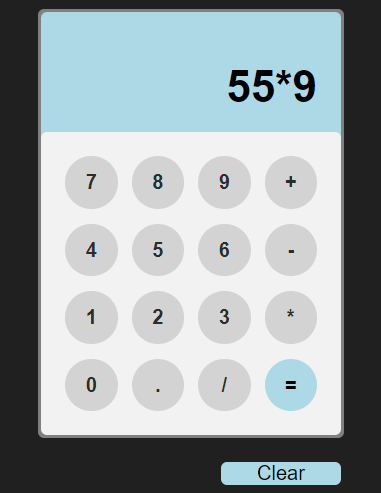
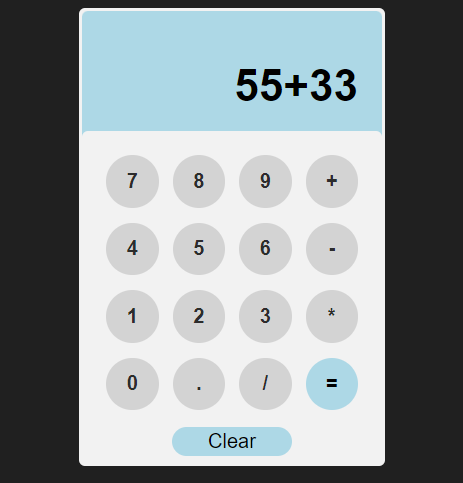
Ajuste no button-clear CSS e na imagem do readme

diff --git a/assets/css/style.css b/assets/css/style.css
@@ -15,9 +15,10 @@ body {
 }
 
 .calculator {
+    height: 19.0625rem;
     display: flex;
     flex-direction: column;
-    background-color: grey;
+    background-color: #f2f2f2;
     padding: 2px;
     border-radius: 4px;
 }
@@ -73,9 +74,10 @@ section {
 .button-clear {
     width: 5rem;
     position: absolute;
-    margin-left: 7.5rem;
-    margin-top: 18.75rem;
-    border-radius: 4px;
+    margin-left: 3.75rem;
+    margin-top: 17.3125rem;
+    padding: 0.125rem;
+    border-radius: 0.625rem;
     border: none;
     cursor: pointer;
     background-color: lightblue;
